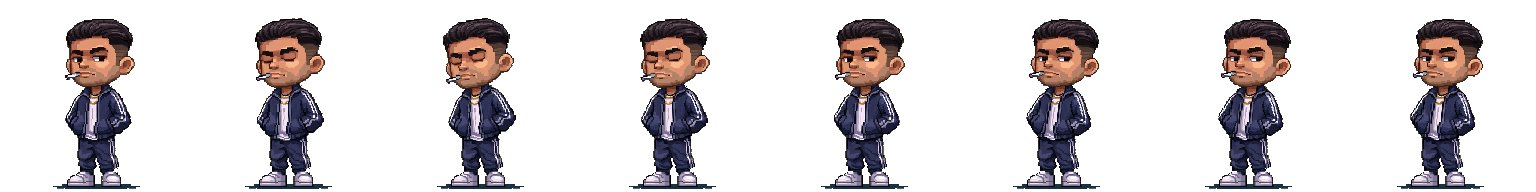
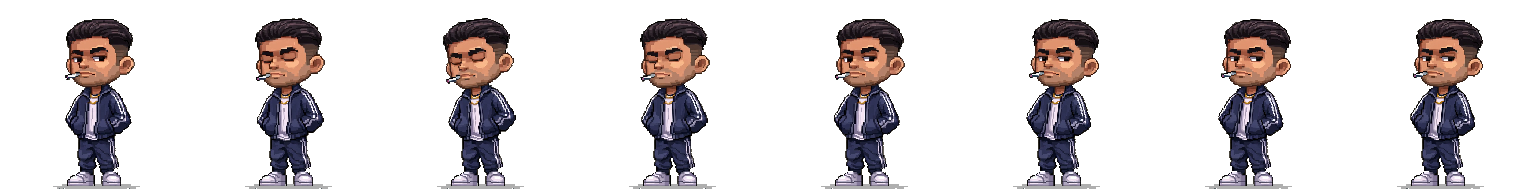
Fix the shadow, the empty sky over his head and the count pinned to the ceiling
The shadow was three stacked ellipses of ours on top of the one the generator
had already baked under the Outsider's shoes — and his baked one is blue,
which on brown asphalt reads as a plate rather than a shadow. Ours is a single
narrow ellipse now, and his blue plate is turned into a soft dark one instead
of being cut away: the cut kept taking the soles with it.

The same trick does not transfer. The Soldier's and Capo's shoes are dark blue
themselves, so the rule that finds a blue shadow finds their shoes; they keep
what the artist drew.

The balance sat level with the corner buttons, squeezed between them — it has
room above it now. And the character grew from 40 to 54 percent of the screen,
which is where the empty band over his head closes up.

diff --git a/client/src/game/TapCoin.tsx b/client/src/game/TapCoin.tsx
@@ -114,18 +114,15 @@ export function TapCoin({ coinsPerTap, disabled, rankId, onTap }: TapCoinProps) 
     >
       {sprite ? (
         <>
-          {/* Тень под ногами, а не свечение: свет из-под ног читается как
-              воздух между фигурой и землёй, и человек повисает над сценой.
-              Ступенями, без размытия — по той же причине, что и контур:
-              плавный градиент на фоне из крупных блоков выдаёт наложение. */}
-          <span className="pointer-events-none absolute inset-x-[22%] bottom-[2.5%] h-3 rounded-[50%] bg-black/55" />
-          <span className="pointer-events-none absolute inset-x-[15%] bottom-[1.5%] h-4 rounded-[50%] bg-black/35" />
-          <span className="pointer-events-none absolute inset-x-[9%] bottom-[0.5%] h-5 rounded-[50%] bg-black/20" />
+          {/* Одна узкая тень ровно под обувью. Трёх ступеней было слишком
+              много: у персонажей своя тень уже нарисована, и поверх неё
+              получалось тёмное пятно шире самой фигуры. */}
+          <span className="pointer-events-none absolute inset-x-[34%] bottom-[3%] h-1.5 rounded-[50%] bg-black/40" />
           {/* Размер задаёт место, оставшееся от плашек, но не больше 40% экрана.
               Потолок нужен из-за фонов: мебель на них нарисована под человека
               примерно такого роста, и на длинном телефоне фигура без предела
               становится выше стола, за которым должна сидеть. */}
-          <span className="don-frame relative block aspect-square h-full max-h-[40vh]">
+          <span className="don-frame relative block aspect-square h-full max-h-[54vh]">
             <span
               className="don-strip block"
               style={{

diff --git a/client/src/game/GameScreen.tsx b/client/src/game/GameScreen.tsx
@@ -39,7 +39,7 @@ export function GameScreen({
           которого экран и существует. */}
       {/* Отступ сверху — под угловые кнопки: без него баланс оказывался
           зажат между шестерёнкой и сводкой. */}
-      <header className="mt-11 flex w-full shrink-0 flex-col items-center gap-1.5 px-2">
+      <header className="mt-14 flex w-full shrink-0 flex-col items-center gap-1 px-2">
         <div className="flex items-baseline gap-2">
           {/* Деньги — главное число экрана, поэтому крупнее названия ранга.
               Было наоборот: ранг кричал, счёт шептал. */}
